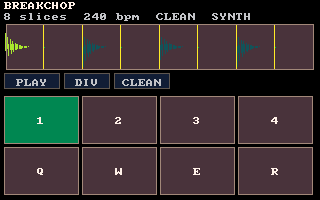
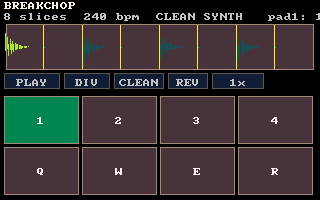
breakchop: per-pad reverse + speed (varispeed), MPC design-then-play
Each pad carries its OWN reverse + speed (.25/.5/1/1.5/2x). Tap a pad to select
it (last-tapped = selected), hit REV or SPD to set that chop's property, tap
again to hear it — design the kit chop-by-chop, then perform (auto-play and
hand-play both use the assigned properties). GRIT stays the one global ride-live
effect. This is the set-then-play split the owner reasoned out: per-pad props are
assigned (can't tune a pad while playing it), globals are ridden.

Speed is varispeed via a transposed hit (SEMI = round(12·log2(speed))) — pitch
couples, no time-stretch (that IS the vinyl/tape drop). Reverse =
instrument_sample_mode(SAMPLE_REVERSE). Pads show a per-pad tag; the header shows
the selected pad's state. Verified audibly: pad @user 3178Hz -> @user 5295Hz.
build-all 501/501.

Next (parked in de:meta todo): the punch-in FX tier (filter/echo/stutter).

diff --git a/tools/carts/breakchop.c b/tools/carts/breakchop.c
@@ -9,15 +9,16 @@
   "teaches": ["gesture-loop"],
   "lineage": "The MPC/SP-404 break-chopper: load a drum LOOP and slice it across a pad grid to re-play and rearrange. Sibling of the `sampler` cart (shares INSTR_SAMPLE + chop playback + master crush), but the source is an EXTERNAL loop loaded at runtime (data-tools/breaks/breaks.js → sample_load), not the console's own output — and the slicing is TEMPO-LOCKED (even divisions), not transient/note-on. The whole point is 'throw in your own loop and it's cut correctly'. Falls back to a console-synthesised break so it's self-contained.",
   "description": {
-    "summary": "Chop a drum loop across a pad grid, tempo-locked — the MPC move. It loads a loop (the amen, via data-tools/breaks) and slices it into even divisions (8/16/32); each slice lands on a pad you can play by hand or auto-run in order at the loop's own tempo (which reconstructs the break — the proof the cut is right). It plays MONO — a new hit silences the ringing chop (the MPC mute-group feel), so stutters stay clean. Add GRIT for the SP-1200 crunch. With no loop file it synthesises a break so there's always something to chop.",
-    "detail": "Bring-your-own-loop auto-chopper. At startup it loads a mono PCM loop via de_data_path() (--data / $DE_DATA) or the default data-tools/breaks/cache/amen.f32; if none is found it synthesises a short kick/snare/hat break so the cart is never empty. The loop is sliced into N EVEN divisions (DIV cycles 8/16/32) — tempo-locked by construction: a clean N-beat loop cuts exactly on the grid, and the tempo is DERIVED from the loop length (60·N/seconds), no metadata needed. The break plays MONOPHONICALLY through one SELF-CHOKED voice: firing any pad (or the next slice in PLAY) instantly silences the chop that's still ringing — the MPC mute-group feel — so stutters/rolls stay clean and the reconstruction never smears. Each slice sets that voice's [i/N, (i+1)/N] region and lands on a pad. TAP a pad (touch/mouse) or press its key to fire that slice at original pitch — the chop performance. PLAY steps through the slices in order at the derived tempo, looping, which reconstructs the original loop (if it sounds seamless, the cut is correct). GRIT crushes the whole output CLEAN/12BIT/8BIT/CRUSH (SP-1200). The waveform shows the slice markers + a live playhead.",
-    "controls": "SPACE (or PLAY) — auto-run the slices in order at tempo (loops). Pads: tap/click a pad or press its key (1 2 3 4 / q w e r / a s d f / z x c v) to fire that slice. DIV — cycle 8/16/32 slices. GRIT — CLEAN/12BIT/8BIT/CRUSH lo-fi. Drop your own loop with --data <loop.f32> (mono float32) or $DE_DATA; make one with data-tools/breaks/breaks.js."
+    "summary": "Chop a drum loop across a pad grid, tempo-locked — the MPC move. It loads a loop (the amen, via data-tools/breaks) and slices it into even divisions (8/16/32); each slice lands on a pad you can play by hand or auto-run in order at the loop's own tempo (which reconstructs the break — the proof the cut is right). It plays MONO — a new hit silences the ringing chop (the MPC mute-group feel), so stutters stay clean. Give any chop its own REVERSE or SPEED (.25–2x, varispeed so pitch couples) — tap a pad to select it, set its property, then perform: you design the kit chop-by-chop and live-play it. Add GRIT for the SP-1200 crunch. With no loop file it synthesises a break so there's always something to chop.",
+    "detail": "Bring-your-own-loop auto-chopper. At startup it loads a mono PCM loop via de_data_path() (--data / $DE_DATA) or the default data-tools/breaks/cache/amen.f32; if none is found it synthesises a short kick/snare/hat break so the cart is never empty. The loop is sliced into N EVEN divisions (DIV cycles 8/16/32) — tempo-locked by construction: a clean N-beat loop cuts exactly on the grid, and the tempo is DERIVED from the loop length (60·N/seconds), no metadata needed. The break plays MONOPHONICALLY through one SELF-CHOKED voice: firing any pad (or the next slice in PLAY) instantly silences the chop that's still ringing — the MPC mute-group feel — so stutters/rolls stay clean and the reconstruction never smears. Each slice sets that voice's [i/N, (i+1)/N] region and lands on a pad. TAP a pad (touch/mouse) or press its key to fire that slice — the last one tapped is SELECTED. Each pad carries its OWN reverse + speed: hit REV or SPD to set the selected chop's property (speed = varispeed .25–2x, pitch couples — no time-stretch, which is the point), tap again to hear it. So you DESIGN the kit chop-by-chop (reverse this one, drop that one an octave) then PERFORM — auto-play and hand-play both use the assigned properties. This is the set-then-play split: per-pad properties are assigned (you can't tune a pad while playing it), GRIT is the one global ride-live effect. PLAY steps through the slices in order at the derived tempo, looping. GRIT crushes the whole output CLEAN/12BIT/8BIT/CRUSH (SP-1200). The waveform shows the slice markers + a live playhead.",
+    "controls": "SPACE (or PLAY) — auto-run the slices in order at tempo (loops). Pads: tap/click a pad or press its key (1 2 3 4 / Q W E R / A S D F / Z X C V) to fire that slice — the last tapped is SELECTED. REV / SPD — set the SELECTED pad's reverse / speed (.25/.5/1/1.5/2x, varispeed), then tap it to hear it: design each chop, then perform. DIV — cycle 8/16/32 slices. GRIT — CLEAN/12BIT/8BIT/CRUSH lo-fi (global). Drop your own loop with --data <loop.f32> (mono float32) or $DE_DATA; make one with data-tools/breaks/breaks.js."
   },
   "todo": [
     "RELEASE GATE: the amen fixture is a copyrighted dev placeholder — before publishing, ship no bundled audio (loops are user-supplied) or swap to a CC0 loop. See data-tools/breaks/README.md.",
     "onset-snap the tempo grid to the actual transients (currently pure even division).",
+    "punch-in FX tier (global, ride-live over the loop): a filter sweep, an echo throw, a stutter/loop-hold — the SP-404 performance half.",
     "runtime user import on device (file picker → sample_load) — the eventual product surface.",
-    "free slice→pad assignment + reorder; persist the kit (save_bytes, like the sampler)."
+    "free slice→pad assignment + reorder; persist the designed kit (per-pad rev/speed) via save_bytes, like the sampler."
   ]
 }
 de:meta */
@@ -57,6 +58,16 @@ static const float GRIT_B[]  = { 16, 12, 8, 4 };
 static const float GRIT_R[]  = { 1, 2, 4, 8 };
 static const char  PADKEYS[] = "1234QWERASDFZXCV";   // 16 keys (keyp wants UPPERCASE letters); >16 = click/touch
 
+// per-pad PROPERTIES (set on the selected pad, then perform — the MPC way). speed is varispeed:
+// pitch couples (no time-stretch), so .5x = an octave down. SEMI = round(12·log2(speed)).
+static const float SPEEDS[]   = { 0.25f, 0.5f, 1.0f, 1.5f, 2.0f };
+static const int   SEMI[]     = { -24, -12, 0, 7, 12 };
+static const char *SPEED_NM[] = { ".25x", ".5x", "1x", "1.5x", "2x" };
+#define NSPEED 5
+#define SPD1X  2                          // index of 1.0x (the default)
+static char pad_rev[MAXSLICE];            // per-pad reverse
+static char pad_speed[MAXSLICE];          // per-pad speed index into SPEEDS (init to SPD1X)
+
 #define PX 6
 #define PY 24
 #define PW (SCREEN_W - 12)
@@ -76,9 +87,11 @@ static void apply_grit(void) { crush(GRIT_B[grit], GRIT_R[grit], grit ? 1.0f : 0
 
 static void fire_slice(int i, int select) {
     if (i < 0 || i >= ndiv) return;
-    int ms = (int)(loop_secs / ndiv * 1000.0f); if (ms < 30) ms = 30;
-    instrument_sample_region(VOICE, (float)i / ndiv, (float)(i + 1) / ndiv);   // carve this slice, then fire
-    hit(ROOT, VOICE, 6, ms);                              // self-choke silences whatever was ringing
+    float sp = SPEEDS[(int)pad_speed[i]];
+    int ms = (int)(loop_secs / ndiv / sp * 1000.0f); if (ms < 30) ms = 30;      // slower pad → longer gate
+    instrument_sample_region(VOICE, (float)i / ndiv, (float)(i + 1) / ndiv);    // carve this slice
+    instrument_sample_mode(VOICE, pad_rev[i] ? SAMPLE_REVERSE : SAMPLE_NORMAL); // per-pad reverse
+    hit(ROOT + SEMI[(int)pad_speed[i]], VOICE, 6, ms);   // per-pad speed = transpose; self-choke cuts the ringing chop
     pad_flash[i] = 1.0f;
     if (select) sel = i;
 }
@@ -172,8 +185,8 @@ void draw(void) {
     char buf[96];
     print("BREAKCHOP", 4, 2, CLR_WHITE);
     if (!loaded) { print("no loop loaded", 4, 14, CLR_RED); return; }
-    snprintf(buf, sizeof buf, "%d slices  %.0f bpm  %s%s", ndiv, derived_bpm(), GRIT_NM[grit],
-             is_synth ? "  SYNTH" : "");
+    snprintf(buf, sizeof buf, "%d slices  %.0f bpm  %s%s   pad%d: %s%s", ndiv, derived_bpm(), GRIT_NM[grit],
+             is_synth ? " SYNTH" : "", sel + 1, SPEED_NM[(int)pad_speed[sel]], pad_rev[sel] ? " REV" : "");
     print(buf, 4, 13, CLR_LIGHT_GREY);
 
     // waveform + slice markers + playhead
@@ -201,7 +214,12 @@ void draw(void) {
         int k = 0; for (int j = 0; j < 3; j++) if (DIVS[j] == ndiv) k = j;
         ndiv = DIVS[(k + 1) % 3]; if (sel >= ndiv) sel = ndiv - 1;
     }
-    if (ui_button(114, PY + PH + 3, 56, 16, GRIT_NM[grit])) { grit = (grit + 1) % 4; apply_grit(); }
+    if (ui_button(114, PY + PH + 3, 50, 16, GRIT_NM[grit])) { grit = (grit + 1) % 4; apply_grit(); }
+    // REV + SPD act on the SELECTED (last-tapped) pad, and re-fire it so you hear the change
+    if (ui_button(168, PY + PH + 3, 40, 16, pad_rev[sel] ? "REV*" : "REV")) { pad_rev[sel] ^= 1; fire_slice(sel, 1); }
+    if (ui_button(212, PY + PH + 3, 52, 16, SPEED_NM[(int)pad_speed[sel]])) {
+        pad_speed[sel] = (pad_speed[sel] + 1) % NSPEED; fire_slice(sel, 1);
+    }
     ui_end();
 
     // pad grid
@@ -215,10 +233,18 @@ void draw(void) {
             char t[2] = { PADKEYS[i], 0 };
             print(t, x + w / 2 - text_width(t) / 2, y + h / 2 - 3, CLR_WHITE);
         }
+        if (pad_rev[i] || pad_speed[i] != SPD1X) {       // per-pad property tag (small, bottom of pad)
+            char tag[10]; snprintf(tag, sizeof tag, "%s%s", pad_rev[i] ? "<" : "",
+                                   pad_speed[i] != SPD1X ? SPEED_NM[(int)pad_speed[i]] : "");
+            font(FONT_SMALL);
+            print(tag, x + w / 2 - text_width(tag) / 2, y + h - 8, CLR_YELLOW);
+            font(FONT_NORMAL);
+        }
     }
 }
 
 void init(void) {
+    for (int i = 0; i < MAXSLICE; i++) pad_speed[i] = SPD1X;   // default every pad to 1x (0 would be .25x)
     const char *p = de_data_path();
     load_loop(p ? p : DEFAULT_LOOP);
     apply_grit();